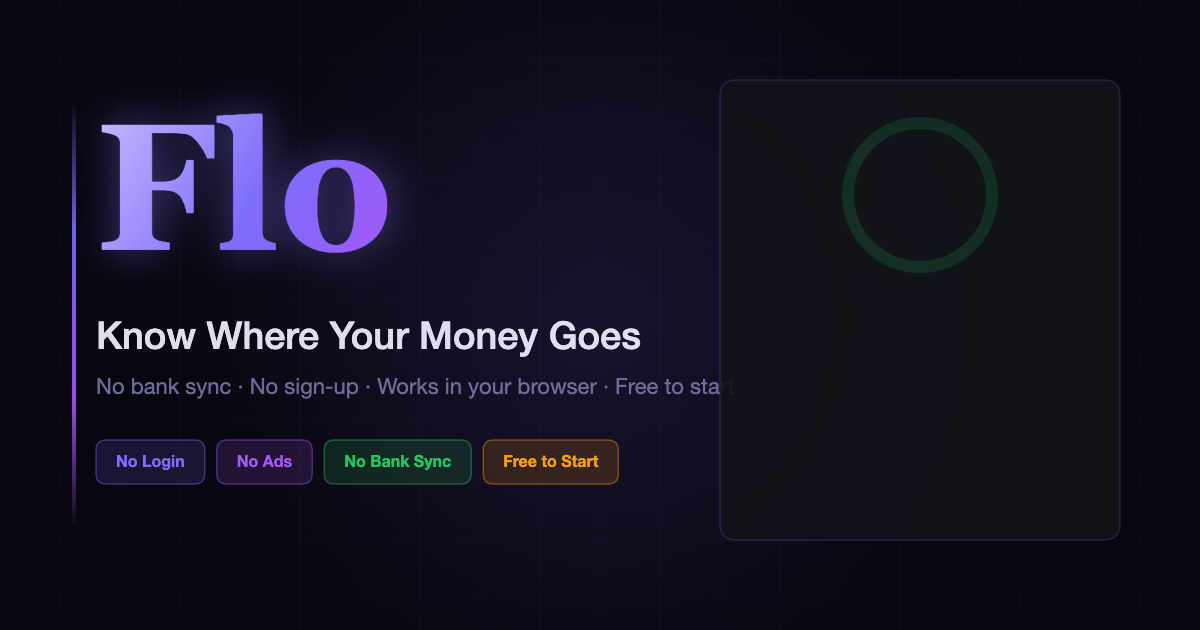
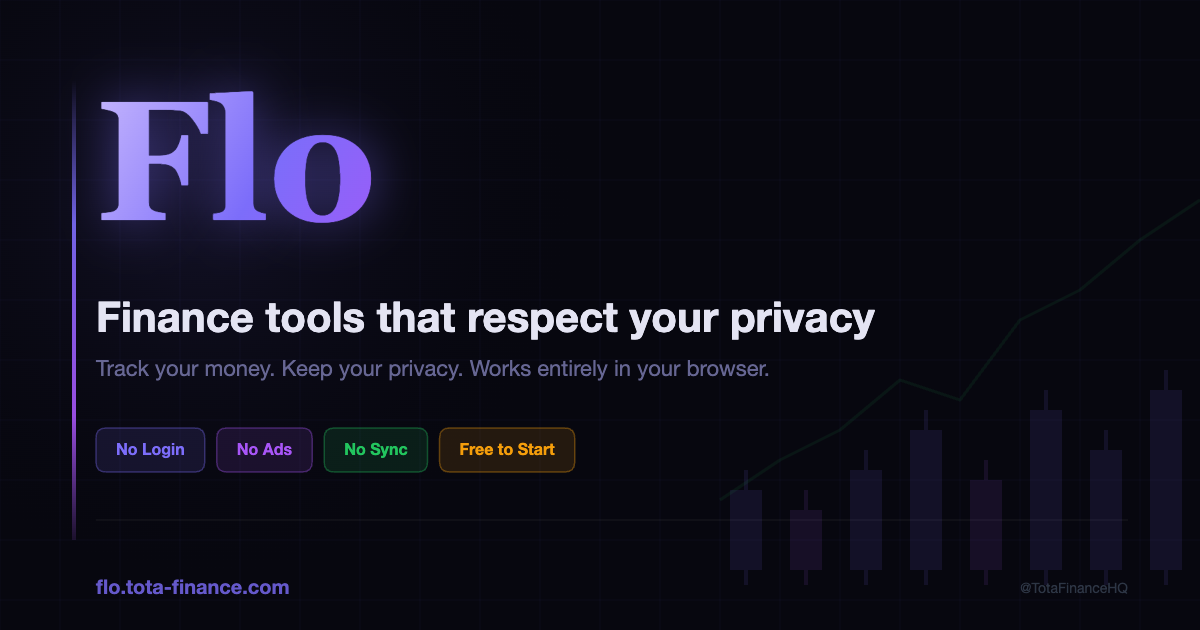
Update og:image — new tagline, no duplicate pills

diff --git a/og-image-generator.html b/og-image-generator.html
@@ -23,126 +23,108 @@ const W=1200,H=630;
 // Background
 ctx.fillStyle='#07070f'; ctx.fillRect(0,0,W,H);
 
-// Radial glow
-const glow=ctx.createRadialGradient(W/2,H/2,0,W/2,H/2,500);
-glow.addColorStop(0,'rgba(124,109,250,0.12)');
-glow.addColorStop(0.5,'rgba(168,85,247,0.06)');
-glow.addColorStop(1,'rgba(0,0,0,0)');
-ctx.fillStyle=glow; ctx.fillRect(0,0,W,H);
-
-// Subtle grid
+// Grid
 ctx.strokeStyle='rgba(124,109,250,0.04)'; ctx.lineWidth=1;
 for(let x=0;x<W;x+=60){ctx.beginPath();ctx.moveTo(x,0);ctx.lineTo(x,H);ctx.stroke();}
 for(let y=0;y<H;y+=60){ctx.beginPath();ctx.moveTo(0,y);ctx.lineTo(W,y);ctx.stroke();}
 
+// Glow top-left
+const glow=ctx.createRadialGradient(200,200,0,200,200,400);
+glow.addColorStop(0,'rgba(124,109,250,0.1)');
+glow.addColorStop(1,'rgba(0,0,0,0)');
+ctx.fillStyle=glow; ctx.fillRect(0,0,W,H);
+
+// Right side — candlestick chart (subtle, decorative)
+ctx.save(); ctx.globalAlpha=0.1;
+const bars=[
+  {x:730,h:80,up:true},{x:790,h:60,up:false},{x:850,h:100,up:true},
+  {x:910,h:140,up:true},{x:970,h:90,up:false},{x:1030,h:160,up:true},
+  {x:1090,h:120,up:true},{x:1150,h:180,up:true},
+];
+bars.forEach(({x,h,up})=>{
+  ctx.fillStyle=up?'#7c6dfa':'#a855f7';
+  ctx.fillRect(x,H-60-h,32,h);
+  // wick
+  ctx.fillRect(x+14,H-60-h-20,4,20);
+  ctx.fillRect(x+14,H-60,4,15);
+});
+ctx.restore();
+
+// Line chart overlay (subtle)
+ctx.save(); ctx.globalAlpha=0.08;
+ctx.strokeStyle='#22c55e'; ctx.lineWidth=3; ctx.lineJoin='round';
+ctx.beginPath();
+const pts=[[720,500],[780,460],[840,430],[900,380],[960,400],[1020,320],[1080,290],[1140,240],[1200,200]];
+ctx.moveTo(pts[0][0],pts[0][1]);
+pts.slice(1).forEach(([x,y])=>ctx.lineTo(x,y));
+ctx.stroke();
+ctx.restore();
+
 // Left accent bar
-const bar=ctx.createLinearGradient(0,100,0,530);
+const bar=ctx.createLinearGradient(0,80,0,560);
 bar.addColorStop(0,'rgba(124,109,250,0)');
 bar.addColorStop(0.3,'rgba(124,109,250,0.9)');
 bar.addColorStop(0.7,'rgba(168,85,247,0.9)');
 bar.addColorStop(1,'rgba(168,85,247,0)');
-ctx.fillStyle=bar; ctx.fillRect(72,100,4,430);
+ctx.fillStyle=bar; ctx.fillRect(72,80,4,460);
 
-// "Flo" — big wordmark
+// "Flo" wordmark
 ctx.save();
-ctx.shadowColor='rgba(124,109,250,0.5)'; ctx.shadowBlur=40;
-const fg=ctx.createLinearGradient(100,120,400,300);
+ctx.shadowColor='rgba(124,109,250,0.5)'; ctx.shadowBlur=50;
+const fg=ctx.createLinearGradient(96,90,420,280);
 fg.addColorStop(0,'#c4b5fd'); fg.addColorStop(0.5,'#7c6dfa'); fg.addColorStop(1,'#a855f7');
 ctx.fillStyle=fg;
-ctx.font='bold 180px Georgia,serif';
+ctx.font='bold 170px Georgia,serif';
 ctx.textBaseline='top';
-ctx.fillText('Flo',96,110);
+ctx.fillText('Flo',96,88);
 ctx.restore();
 
-// Tagline
-ctx.fillStyle='rgba(240,240,255,0.92)';
-ctx.font='500 38px "Helvetica Neue",Arial,sans-serif';
-ctx.textBaseline='top';
-ctx.fillText('Know Where Your Money Goes',96,318);
+// Main headline
+ctx.fillStyle='rgba(240,240,255,0.95)';
+ctx.font='bold 42px "Helvetica Neue",Arial,sans-serif';
+ctx.textBaseline='top'; ctx.textAlign='left';
+ctx.fillText('Finance tools that respect your privacy',96,298);
 
-// Sub-tagline
-ctx.fillStyle='rgba(119,119,170,0.9)';
+// Sub-line
+ctx.fillStyle='rgba(119,119,170,0.85)';
 ctx.font='400 22px "Helvetica Neue",Arial,sans-serif';
-ctx.fillText('No bank sync · No sign-up · Works in your browser · Free to start',96,376);
+ctx.fillText('Track your money. Keep your privacy. Works entirely in your browser.',96,358);
 
-// Pills row
+// Pills
 const pills=[
-  {label:'No Login',     color:'#7c6dfa', bg:'rgba(124,109,250,0.15)', border:'rgba(124,109,250,0.4)'},
-  {label:'No Ads',       color:'#a855f7', bg:'rgba(168,85,247,0.15)',  border:'rgba(168,85,247,0.4)'},
-  {label:'No Bank Sync', color:'#22c55e', bg:'rgba(34,197,94,0.15)',   border:'rgba(34,197,94,0.4)'},
-  {label:'Free to Start',color:'#f59e0b', bg:'rgba(245,158,11,0.15)',  border:'rgba(245,158,11,0.4)'},
+  {label:'No Login',     color:'#7c6dfa', bg:'rgba(124,109,250,0.12)', border:'rgba(124,109,250,0.35)'},
+  {label:'No Ads',       color:'#a855f7', bg:'rgba(168,85,247,0.12)',  border:'rgba(168,85,247,0.35)'},
+  {label:'No Sync',      color:'#22c55e', bg:'rgba(34,197,94,0.12)',   border:'rgba(34,197,94,0.35)'},
+  {label:'Free to Start',color:'#f59e0b', bg:'rgba(245,158,11,0.12)',  border:'rgba(245,158,11,0.35)'},
 ];
 let px=96;
 pills.forEach(({label,color,bg,border})=>{
-  const pad=20, h=44;
+  const pad=20, ph=44;
   ctx.font='bold 16px "Helvetica Neue",Arial,sans-serif';
   const tw=ctx.measureText(label).width;
-  const w=tw+pad*2;
-  // bg
-  ctx.fillStyle=bg;
-  roundRect(ctx,px,440,w,h,10); ctx.fill();
-  // border
-  ctx.strokeStyle=border; ctx.lineWidth=1.5;
-  roundRect(ctx,px,440,w,h,10); ctx.stroke();
-  // text
-  ctx.fillStyle=color;
-  ctx.textBaseline='middle';
-  ctx.fillText(label,px+pad,440+h/2);
-  px+=w+12;
+  const pw=tw+pad*2;
+  ctx.fillStyle=bg; roundRect(ctx,px,428,pw,ph,10); ctx.fill();
+  ctx.strokeStyle=border; ctx.lineWidth=1.5; roundRect(ctx,px,428,pw,ph,10); ctx.stroke();
+  ctx.fillStyle=color; ctx.textBaseline='middle'; ctx.textAlign='left';
+  ctx.fillText(label,px+pad,428+ph/2);
+  px+=pw+12;
 });
 
-// Right side — mini dashboard preview
-const rx=720, ry=80, rw=400, rh=460;
-// Card BG
-ctx.fillStyle='rgba(17,17,24,0.9)';
-roundRect(ctx,rx,ry,rw,rh,16); ctx.fill();
-ctx.strokeStyle='rgba(124,109,250,0.2)'; ctx.lineWidth=1.5;
-roundRect(ctx,rx,ry,rw,rh,16); ctx.stroke();
+// Bottom divider
+ctx.strokeStyle='rgba(255,255,255,0.07)'; ctx.lineWidth=1;
+ctx.beginPath(); ctx.moveTo(96,520); ctx.lineTo(W-72,520); ctx.stroke();
 
-// Score circle
-ctx.save();
-ctx.shadowColor='rgba(34,197,94,0.4)'; ctx.shadowBlur=20;
-ctx.strokeStyle='rgba(34,197,94,0.15)'; ctx.lineWidth=12;
-ctx.beginPath(); ctx.arc(rx+rw/2,ry+115,72,0,Math.PI*2); ctx.stroke();
-ctx.strokeStyle='#22c55e'; ctx.lineWidth=12;
-ctx.lineCap='round';
-ctx.beginPath(); ctx.arc(rx+rw/2,ry+115,-Math.PI/2,-Math.PI/2+Math.PI*2*0.78,false); ctx.stroke();
-ctx.restore();
-ctx.fillStyle='rgba(240,240,255,0.95)';
-ctx.font='bold 36px "Helvetica Neue",Arial,sans-serif';
-ctx.textAlign='center'; ctx.textBaseline='middle';
-ctx.fillText('78',rx+rw/2,ry+108);
-ctx.fillStyle='rgba(34,197,94,0.8)';
-ctx.font='bold 13px "Helvetica Neue",Arial,sans-serif';
-ctx.fillText('GOOD',rx+rw/2,ry+135);
-
-// Mini bars
-const cats=[['Housing','#7c6dfa',0.65],['Food','#a855f7',0.42],['Transport','#22c55e',0.28],['Savings','#f59e0b',0.55]];
-cats.forEach(([name,color,pct],i)=>{
-  const by=ry+215+i*52;
-  ctx.fillStyle='rgba(240,240,255,0.5)';
-  ctx.font='500 13px "Helvetica Neue",Arial,sans-serif';
-  ctx.textAlign='left'; ctx.textBaseline='middle';
-  ctx.fillText(name,rx+24,by+10);
-  // bar bg
-  ctx.fillStyle='rgba(255,255,255,0.05)';
-  roundRect(ctx,rx+24,by+24,rw-48,10,5); ctx.fill();
-  // bar fill
-  ctx.fillStyle=color+'99';
-  roundRect(ctx,rx+24,by+24,(rw-48)*pct,10,5); ctx.fill();
-});
-
-// Bottom URL
+// URL
 ctx.fillStyle='rgba(124,109,250,0.8)';
 ctx.font='bold 20px "Helvetica Neue",Arial,sans-serif';
-ctx.textAlign='left'; ctx.textBaseline='bottom';
-ctx.fillText('flo.tota-finance.com',96,H-38);
+ctx.textBaseline='bottom'; ctx.textAlign='left';
+ctx.fillText('flo.tota-finance.com',96,H-32);
 
-// Tota Finance tag
-ctx.fillStyle='rgba(119,119,170,0.5)';
+// Handle
+ctx.fillStyle='rgba(71,85,105,0.6)';
 ctx.font='400 14px "Helvetica Neue",Arial,sans-serif';
 ctx.textAlign='right';
-ctx.fillText('Part of Tota Finance',W-72,H-40);
+ctx.fillText('@TotaFinanceHQ',W-72,H-34);
 
 function roundRect(ctx,x,y,w,h,r){
   ctx.beginPath();
